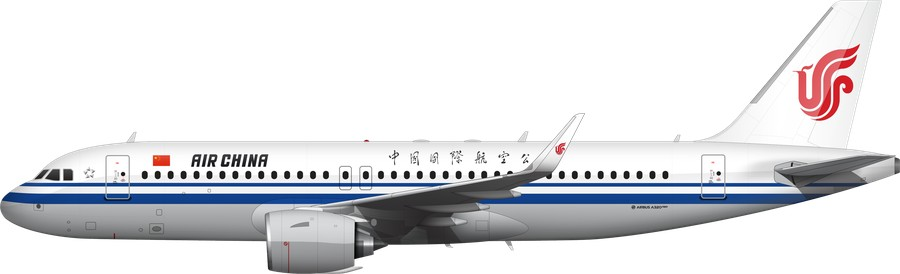
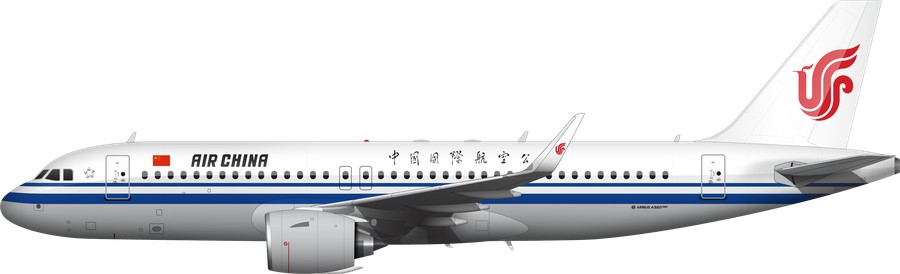
update overview

diff --git a/index.html b/index.html
@@ -40,7 +40,7 @@ button{font-family:inherit}.bar button{border:1px solid #bbb;background:#fff;bor
 <div class="card" data-key="Standard/Air China/Air China - A319" data-name="Air China A319" data-png="Liveries Done/Standard/Air China/Air China - A319/Air China_A319.png" data-base="{&quot;status&quot;: &quot;完美&quot;, &quot;reason&quot;: &quot;&quot;, &quot;author&quot;: &quot;我們&quot;, &quot;note&quot;: &quot;&quot;}"><img loading="lazy" src="_work/overview_thumbs900/897bd1e86140.jpg?v=1795445038"><div class="t">A319</div><span class="b"></span><span class="m r"></span><div class="m a"></div></div>
 <div class="card" data-key="Standard/Air China/Air China - A319neo" data-name="Air China A319neo" data-png="Liveries Done/Standard/Air China/Air China - A319neo/Air China_A319neo.png" data-base="{&quot;status&quot;: &quot;完美&quot;, &quot;reason&quot;: &quot;&quot;, &quot;author&quot;: &quot;我們&quot;, &quot;note&quot;: &quot;&quot;}"><img loading="lazy" src="_work/overview_thumbs900/ed9afbb7040e.jpg?v=1795445038"><div class="t">A319neo</div><span class="b"></span><span class="m r"></span><div class="m a"></div></div>
 <div class="card" data-key="Standard/Air China/Air China - A320" data-name="Air China A320" data-png="Liveries Done/Standard/Air China/Air China - A320/Air China_A320.png" data-base="{&quot;status&quot;: &quot;完美&quot;, &quot;reason&quot;: &quot;&quot;, &quot;author&quot;: &quot;我們&quot;, &quot;note&quot;: &quot;&quot;}"><img loading="lazy" src="_work/overview_thumbs900/9333b53215df.jpg?v=1795445038"><div class="t">A320</div><span class="b"></span><span class="m r"></span><div class="m a"></div></div>
-<div class="card" data-key="Standard/Air China/Air China - A320neo" data-name="Air China A320neo" data-png="Liveries Done/Standard/Air China/Air China - A320neo/Air China_A320neo.png" data-base="{&quot;status&quot;: &quot;要處理&quot;, &quot;reason&quot;: &quot;gloss&quot;, &quot;author&quot;: &quot;我們&quot;, &quot;note&quot;: &quot;&quot;}"><img loading="lazy" src="_work/overview_thumbs900/47404ba12896.jpg?v=1794734152"><div class="t">A320neo</div><span class="b"></span><span class="m r"></span><div class="m a"></div></div>
+<div class="card" data-key="Standard/Air China/Air China - A320neo" data-name="Air China A320neo" data-png="Liveries Done/Standard/Air China/Air China - A320neo/Air China_A320neo.png" data-base="{&quot;status&quot;: &quot;完美&quot;, &quot;reason&quot;: &quot;&quot;, &quot;author&quot;: &quot;我們&quot;, &quot;note&quot;: &quot;&quot;}"><img loading="lazy" src="_work/overview_thumbs900/47404ba12896.jpg?v=1795448283"><div class="t">A320neo</div><span class="b"></span><span class="m r"></span><div class="m a"></div></div>
 <div class="card" data-key="Standard/Air China/Air China - A330-200" data-name="Air China A330-200" data-png="Liveries Done/Standard/Air China/Air China - A330-200/Air China_A330-200.png" data-base="{&quot;status&quot;: &quot;完美&quot;, &quot;reason&quot;: &quot;&quot;, &quot;author&quot;: &quot;我們&quot;, &quot;note&quot;: &quot;&quot;}"><img loading="lazy" src="_work/overview_thumbs900/a55ab26c092e.jpg?v=1795346998"><div class="t">A330-200</div><span class="b"></span><span class="m r"></span><div class="m a"></div></div>
 <div class="card" data-key="Standard/Air China/Air China - A330-300" data-name="Air China A330-300" data-png="Liveries Done/Standard/Air China/Air China - A330-300/Air China_A330-300.png" data-base="{&quot;status&quot;: &quot;完美&quot;, &quot;reason&quot;: &quot;&quot;, &quot;author&quot;: &quot;我們&quot;, &quot;note&quot;: &quot;&quot;}"><img loading="lazy" src="_work/overview_thumbs900/aa91cad25710.jpg?v=1795346998"><div class="t">A330-300</div><span class="b"></span><span class="m r"></span><div class="m a"></div></div>
 <div class="card" data-key="Standard/Air China/Air China - A350-900" data-name="Air China A350-900" data-png="Liveries Done/Standard/Air China/Air China - A350-900/Air China_A350-900.png" data-base="{&quot;status&quot;: &quot;完美&quot;, &quot;reason&quot;: &quot;&quot;, &quot;author&quot;: &quot;我們&quot;, &quot;note&quot;: &quot;&quot;}"><img loading="lazy" src="_work/overview_thumbs900/4aaf8502b36c.jpg?v=1795349462"><div class="t">A350-900</div><span class="b"></span><span class="m r"></span><div class="m a"></div></div>
